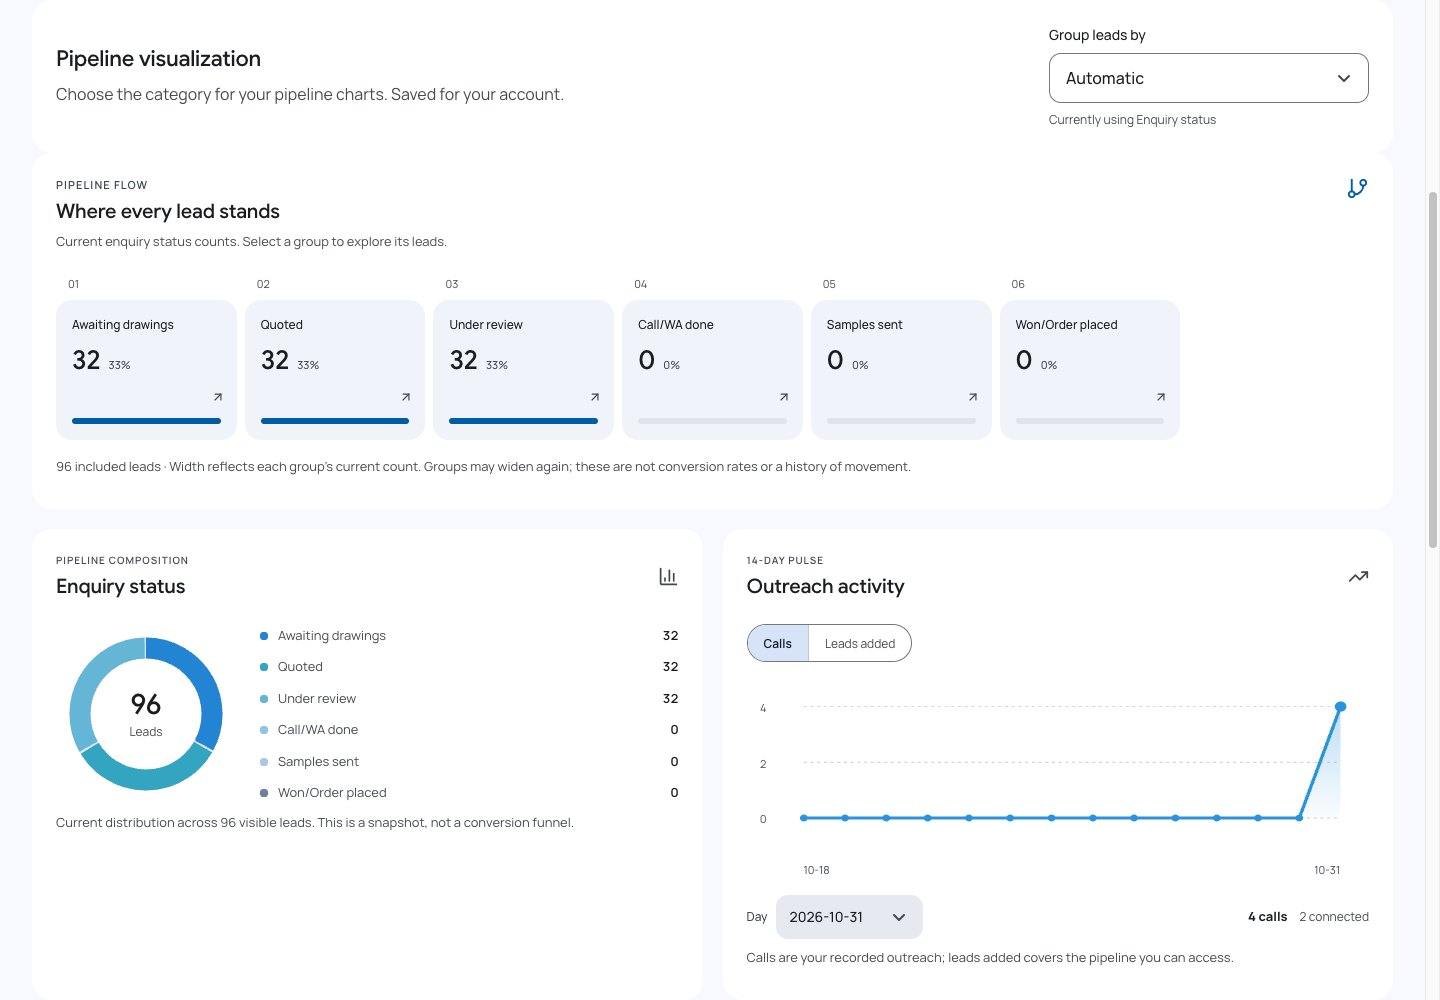
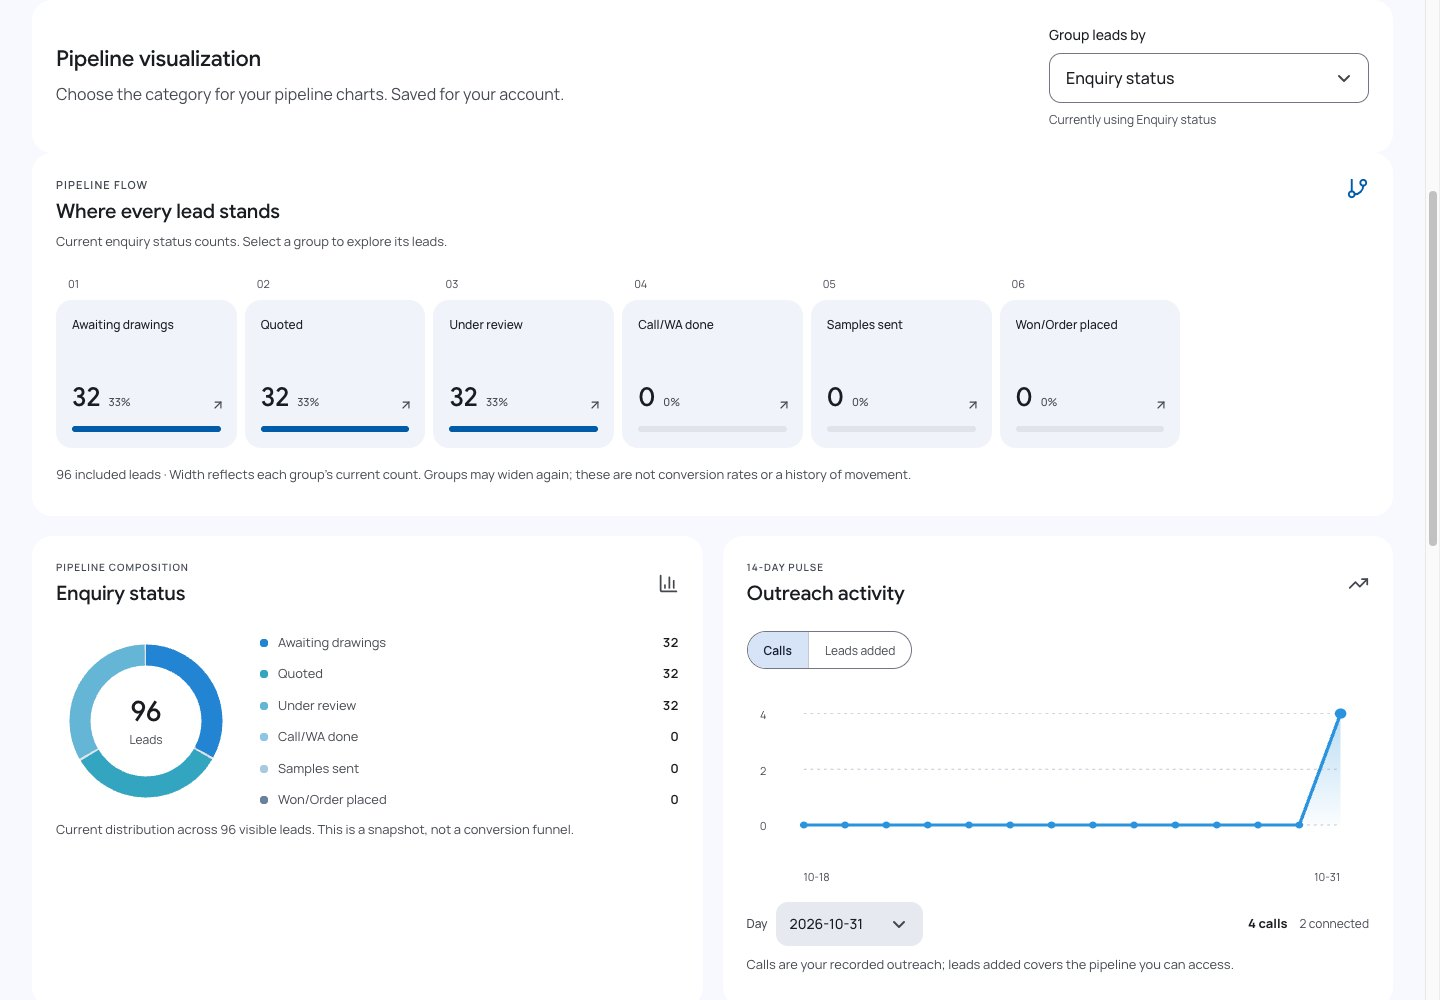
fix: separate missing-category chart labels

diff --git a/apps/web/src/material/dashboard.css b/apps/web/src/material/dashboard.css
@@ -668,7 +668,10 @@
 .dashboard-category-control > [role=alert],.dashboard-category-control > [role=status]{grid-column:1/-1;}
 @media(max-width:767.99px){.dashboard-category-control{grid-template-columns:minmax(0,1fr);}}
 
-.funnel-label,.chart-legend > div > span{overflow-wrap:anywhere;display:-webkit-box;-webkit-line-clamp:2;-webkit-box-orient:vertical;overflow:hidden;}
+.funnel-label,.chart-legend > div > span{display:grid;gap:4px;min-width:0;}
+.funnel-label{min-height:4.5em;align-content:start;}
+.category-label-text{overflow-wrap:anywhere;display:-webkit-box;-webkit-line-clamp:2;-webkit-box-orient:vertical;overflow:hidden;}
+.funnel-label > small,.chart-legend > div > span > small{display:block;font-size:.6875rem;line-height:1.4;font-weight:400;color:var(--muted);}
 .funnel-stage button:disabled{opacity:1;cursor:default;}
 
 .dashboard-category-control label > small{font-weight:400;color:var(--muted);font-size:.75rem;}

diff --git a/apps/web/src/components/PipelineFunnel.tsx b/apps/web/src/components/PipelineFunnel.tsx
@@ -56,7 +56,7 @@ export default function PipelineFunnel({
               onClick={() => onStage(s.label, 'empty' in s && Boolean(s.empty))}
               aria-label={`${s.label}: ${s.value} leads, ${total ? Math.round((s.value / total) * 100) : 0}% of included leads`}
             >
-              <span className="funnel-label">{s.label}{'empty' in s && s.empty ? <small>Missing value</small> : null}</span>
+              <span className="funnel-label"><span className="category-label-text">{s.label}</span>{'empty' in s && s.empty ? <small>Missing value</small> : null}</span>
               <span className="funnel-volume">
                 <span
                   className="funnel-bar"

diff --git a/apps/web/src/features/DashboardPage.tsx b/apps/web/src/features/DashboardPage.tsx
@@ -93,7 +93,7 @@ function Ring({ data, label }: { data: any[]; label: string }) {
                   : colors[i % colors.length],
               }}
             />
-            <span>{d.label}{d.empty?<small>Missing value</small>:null}</span>
+            <span><span className="category-label-text">{d.label}</span>{d.empty?<small>Missing value</small>:null}</span>
             <strong>{d.value}</strong>
           </div>
         ))}

diff --git a/docs/DASHBOARD-MISSING-2.5.1-REVIEW.md b/docs/DASHBOARD-MISSING-2.5.1-REVIEW.md
@@ -1,0 +1,9 @@
+# Missing-category labels: v2.5.1
+
+The v2.5.0 production guest review exposed concatenated Not recorded / Missing value text in the pipeline cards and composition legend. The forward patch separates primary labels and helpers, clamps primary text independently and reserves a consistent card label area so counts align. Grouping data, saved settings, permissions, APIs and telemetry remain unchanged.
+
+Focused local Chromium review passed ten viewport/theme combinations: 390, 768, 1024, 1440 and 1920 CSS pixels in light/dark. Both helpers sit at least 3px below the primary label; card counts align within 1px and the page does not overflow. Desktop/phone missing-state and populated-category captures were visually/privacy reviewed before curation. Fixtures are the isolated fictional guest app and Admin dashboard preview; no customer data or writes.
+
+Local validation uses the focused browser check, types/production build and fixture-exclusion check, docs/settings/skills/release gates and credential/export scan. Broad local domain suites are not repeated for this markup/CSS-only change; normal PR and main CI still provide required regression checks. The versioned release plan records expected gates, not deployment success.
+
+Physical devices, Safari and Dynatrace tenant queries are not certified. Post-deploy verification must separately confirm exact version/SHA, API 1.21.0, active functions, public guides, guest missing-label geometry and monitoring receipts. Earlier 2.5.0 screenshots remain historical unless their visible affected state was recaptured; no old image is restamped.

diff --git a/README.md b/README.md
@@ -1,7 +1,7 @@
 # SalesDrone by AvinyaTech
 
-> v2.5.0 adds reusable import fields, configurable status mapping, personal dashboard grouping and readable import/popup controls.
-> See [review evidence](docs/IMPORT-FIELDS-2.5.0-REVIEW.md) and the [Observability agent](skills/salesdrone-observability/SKILL.md); deployment evidence is retained per workflow run.
+> v2.5.1 separates missing-category labels and helper text, alongside the v2.5.0 import-field, status-mapping and personal-dashboard improvements.
+> See [import review](docs/IMPORT-FIELDS-2.5.0-REVIEW.md) and [chart label review](docs/DASHBOARD-MISSING-2.5.1-REVIEW.md) and the [Observability agent](skills/salesdrone-observability/SKILL.md); deployment evidence is retained per workflow run.
 
 SalesDrone 2.0 uses Material 3 across the workspace, with responsive navigation,
 filled forms, a resizable lead inspector and automatic lead-list pagination.
@@ -20,7 +20,7 @@ and [design system](docs/DESIGN-SYSTEM.md). All screenshots use fictional demo d
 [![Node.js 22](https://img.shields.io/badge/Node.js-22-43853d?logo=nodedotjs&logoColor=white)](https://nodejs.org/)
 [![Gemini](https://img.shields.io/badge/AI-Gemini-0756a5?logo=googlegemini&logoColor=white)](https://ai.google.dev/)
 
-**Part of Avinya Enterprises · v2.5.0 · MIT**
+**Part of Avinya Enterprises · v2.5.1 · MIT**
 
 A sales workspace that keeps an enquiry, its conversations and its next step together. Built with React, Firebase and Gemini, with a responsive interface for desktop and mobile.
 

diff --git a/docs/TESTING.md b/docs/TESTING.md
@@ -111,3 +111,5 @@ functions/test/exact-filters.test.js covers more than 1,000 rows, all equality p
 import-fields.test.ts checks populated-column coverage, blanks/comments, duplicate headers, stable ID reuse, mapping collisions and caps. Component workflows verify Admin creation with literal codes/comments and non-admin exclusion. dashboard-grouping.test.js verifies hidden-stage fallback, custom text caps/totals, empty buckets, self-owned persistence, scope, audit and old-client merging. The real emulator scenario creates schema as Admin, rejects non-admin/stale writes, imports/replays/updates custom values while preserving hidden workflow, then persists personal chart fields. Browser review covers import row hierarchy, actual open pickers, multiple widths/themes, scrolling and field switching; it does not certify physical devices/Safari.
 
 For v2.5.0, customizable category pickers are measured open; modal selects use native platform pickers to avoid modal Escape conflicts. Measure their closed geometry and parent-dialog Escape behavior separately; do not claim CSS control over OS popup rendering.
+
+The v2.5.1 missing-category presentation check uses an empty Enquiry status group in the real fictional guest dashboard: measure both primary/helper bounds separately across 390/768/1024/1440/1920 CSS pixels and both palettes. Local verification is the focused browser review and build; required PR/main CI supplies domain regression coverage without repeating broad local suites for this markup/CSS patch.

diff --git a/skills/salesdrone-product-guide/SKILL.md b/skills/salesdrone-product-guide/SKILL.md
@@ -57,3 +57,5 @@ For detailed UI, recovery and integration recipes, read [operations](references/
 ## Known gaps
 
 These are tracked follow-ups, not implemented behavior: [#4](https://github.com/theharithsa/SalesDrone/issues/4), [#15](https://github.com/theharithsa/SalesDrone/issues/15), [#21](https://github.com/theharithsa/SalesDrone/issues/21), [#37](https://github.com/theharithsa/SalesDrone/issues/37), [#55](https://github.com/theharithsa/SalesDrone/issues/55), [#56](https://github.com/theharithsa/SalesDrone/issues/56), [#58](https://github.com/theharithsa/SalesDrone/issues/58), [#59](https://github.com/theharithsa/SalesDrone/issues/59), [#60](https://github.com/theharithsa/SalesDrone/issues/60). Check their current status before changing the contract.
+
+When a category has no recorded values, review and capture the missing-group state as well as populated groups. Primary labels and Missing value helpers must occupy separate rows; new empty-state captures supplement unchanged populated screenshots without restamping them.

diff --git a/skills/salesdrone-dashboard/SKILL.md b/skills/salesdrone-dashboard/SKILL.md
@@ -84,3 +84,5 @@ For detailed UI, recovery and integration recipes, read [operations](references/
 ## Known gaps
 
 These are tracked follow-ups, not implemented behavior: [#16](https://github.com/theharithsa/SalesDrone/issues/16), [#60](https://github.com/theharithsa/SalesDrone/issues/60). Check their current status before changing the contract.
+
+Missing groups need separate primary-label and helper elements in cards and the composition legend. Clamp only the primary text; keep Missing value on its own line with a visible gap so literal Not recorded values remain distinguishable. Browser-check the empty group, not only populated fixtures.

diff --git a/docs/SETTINGS.md b/docs/SETTINGS.md
@@ -1,6 +1,6 @@
 # Customize SalesDrone
 
-Settings guide for **v2.5.0**. Desktop groups expand to reveal their sections; mobile uses a grouped Settings section selector. Admin-only sections are hidden for other members. Changes to workspace data are authorized by the API, not by navigation.
+Settings guide for **v2.5.1**. Desktop groups expand to reveal their sections; mobile uses a grouped Settings section selector. Admin-only sections are hidden for other members. Changes to workspace data are authorized by the API, not by navigation.
 
 ## Personal → Profile
 

diff --git a/docs/API.md b/docs/API.md
@@ -1,6 +1,6 @@
 # SalesDrone API integration guide
 
-Application release **v2.5.0**, OpenAPI contract **1.21.0**. All application operations
+Application release **v2.5.1**, OpenAPI contract **1.21.0**. All application operations
 use `/api/v1`; version numbers for the app and contract are independent.
 
 - [Interactive Swagger portal](https://sales-drone-avinya.firebaseapp.com/api/docs)

diff --git a/docs/TECHNICAL.md b/docs/TECHNICAL.md
@@ -1,6 +1,6 @@
 # SalesDrone technical guide
 
-Current application: **2.5.0** (initial baseline **1.0.0**). Product: SalesDrone by AvinyaTech, part of Avinya
+Current application: **2.5.1** (initial baseline **1.0.0**). Product: SalesDrone by AvinyaTech, part of Avinya
 Enterprises. Code is MIT-licensed; third-party notices and trademarks remain separate.
 
 ## Stack and repository

diff --git a/CHANGELOG.md b/CHANGELOG.md
@@ -5,6 +5,12 @@ API contract versions are independent from application versions.
 
 
 
+
+## [2.5.1] - 2026-10-31
+
+### Fixed
+- #86: Put missing-category helper text on its own line in pipeline cards and the composition legend. Clamp primary labels independently so Not recorded and Missing value remain distinct at phone and desktop widths.
+
 ## [2.5.0] - 2026-10-31
 
 ### Added
